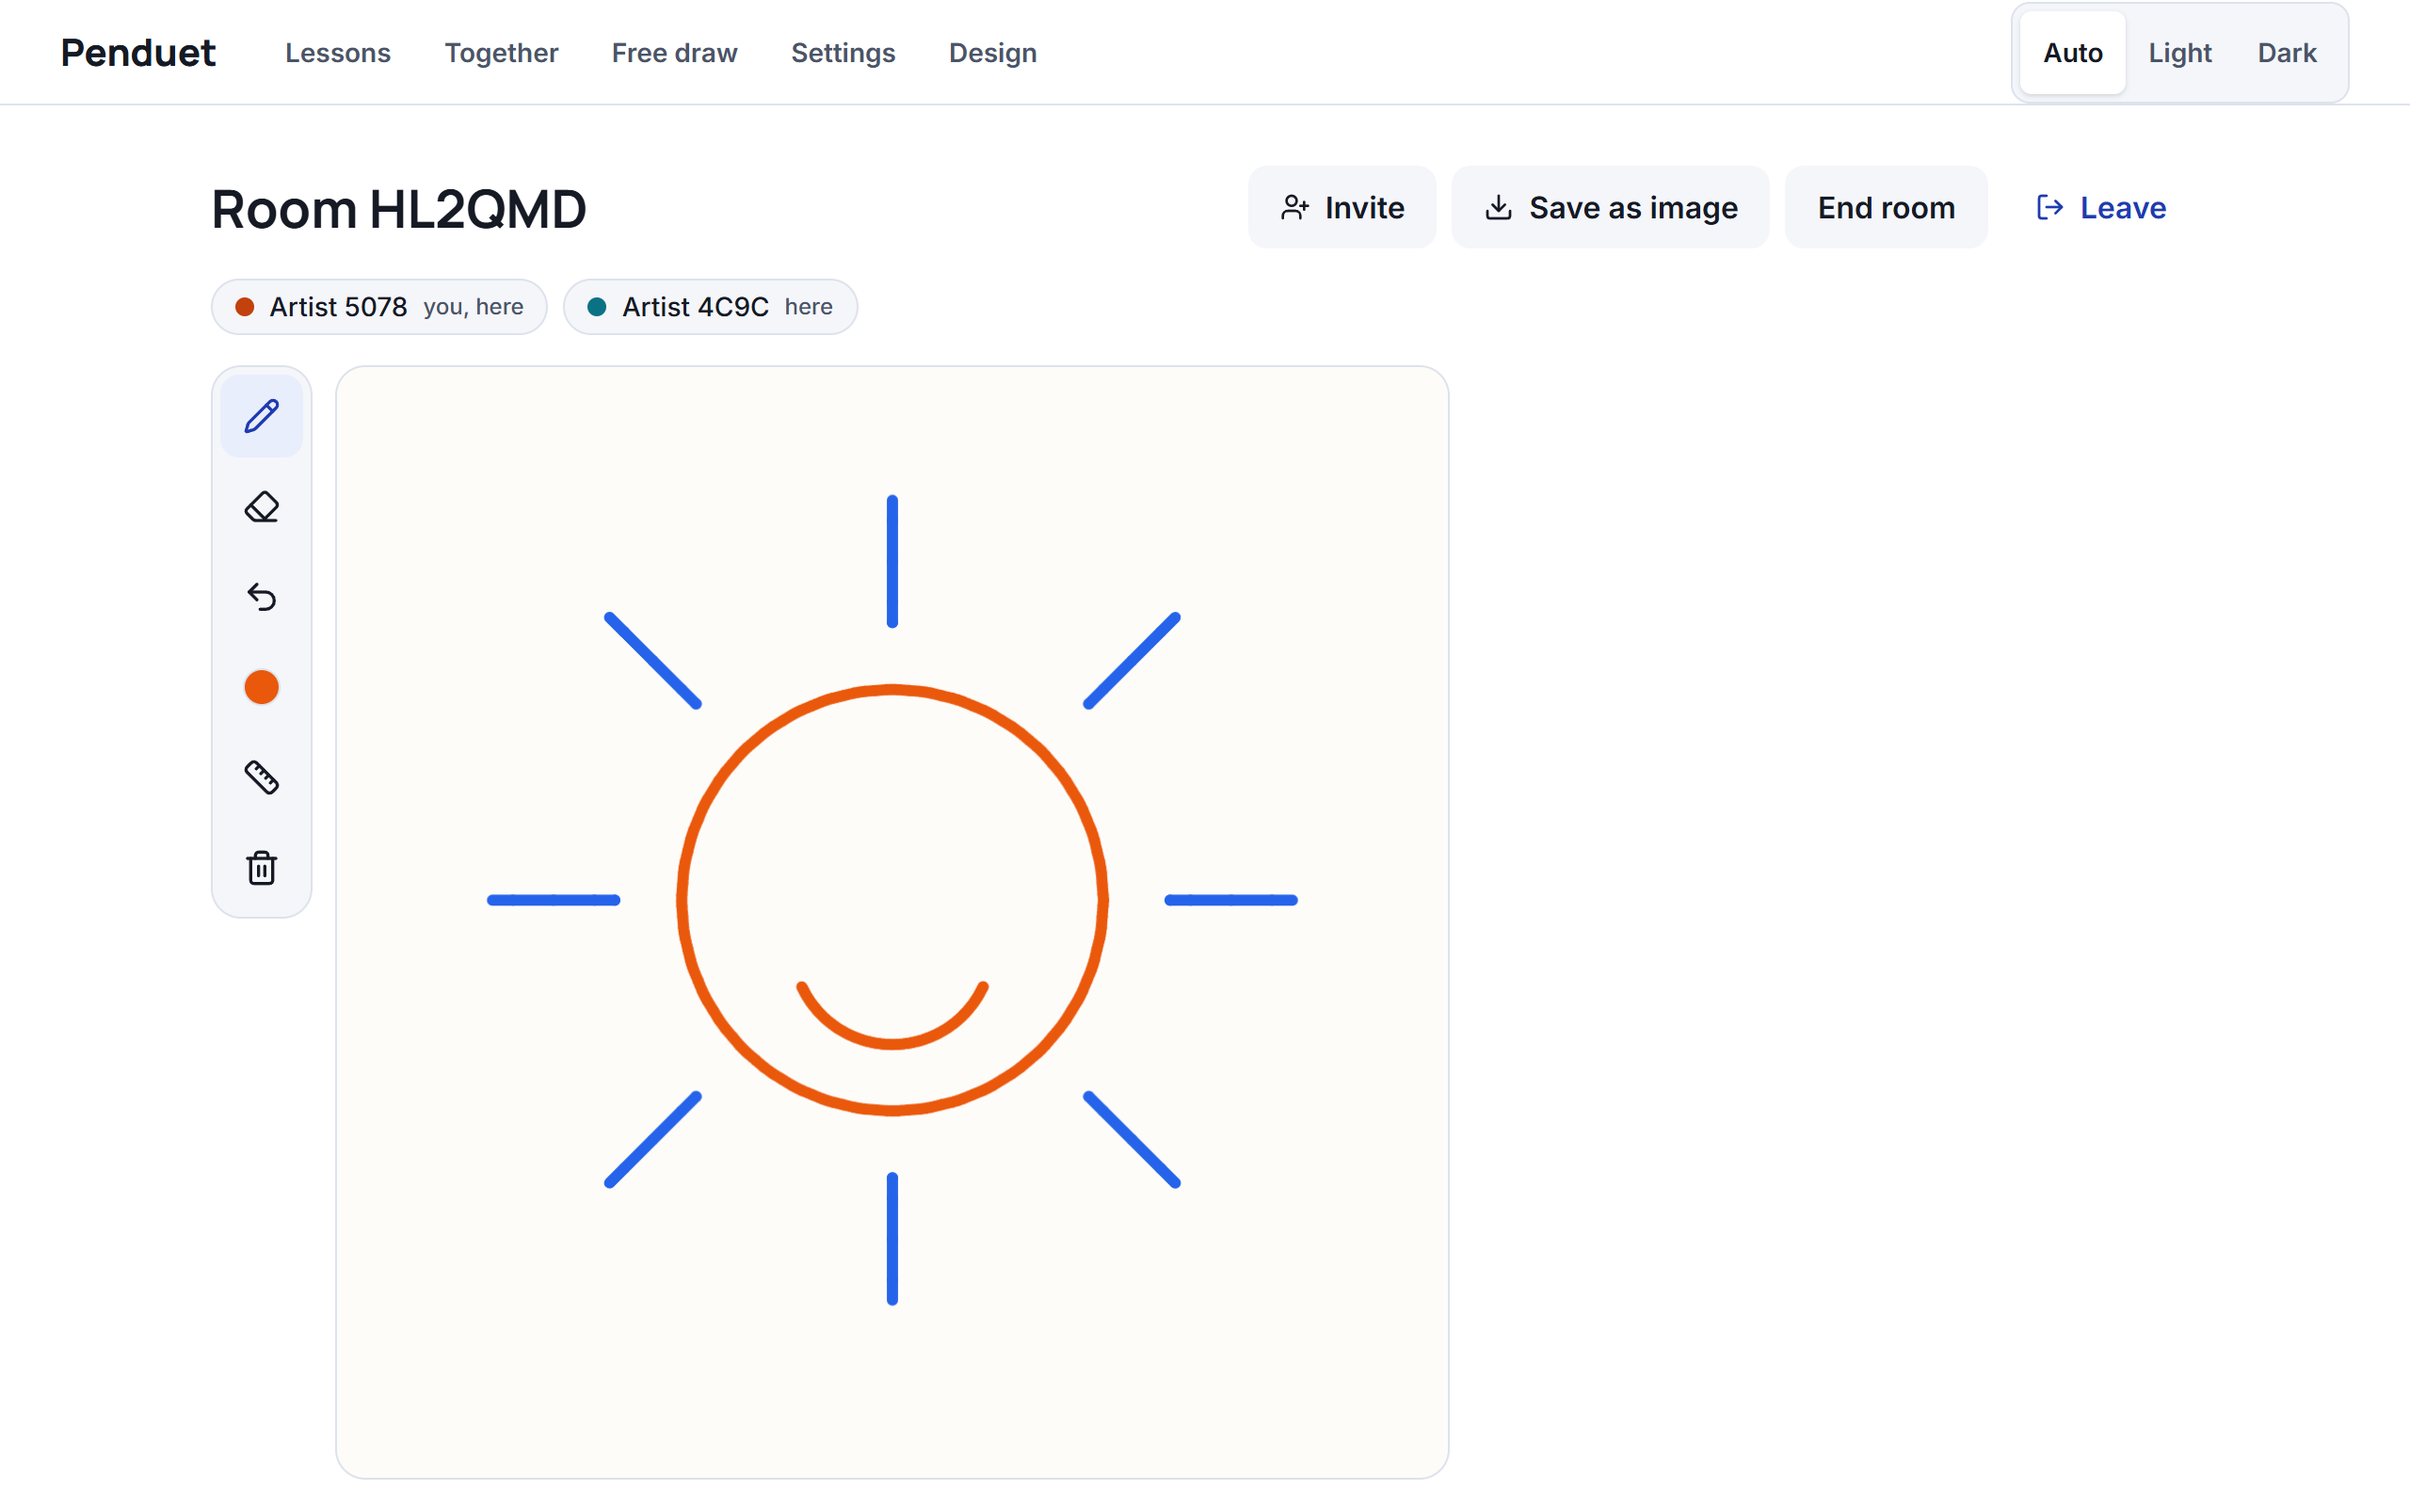
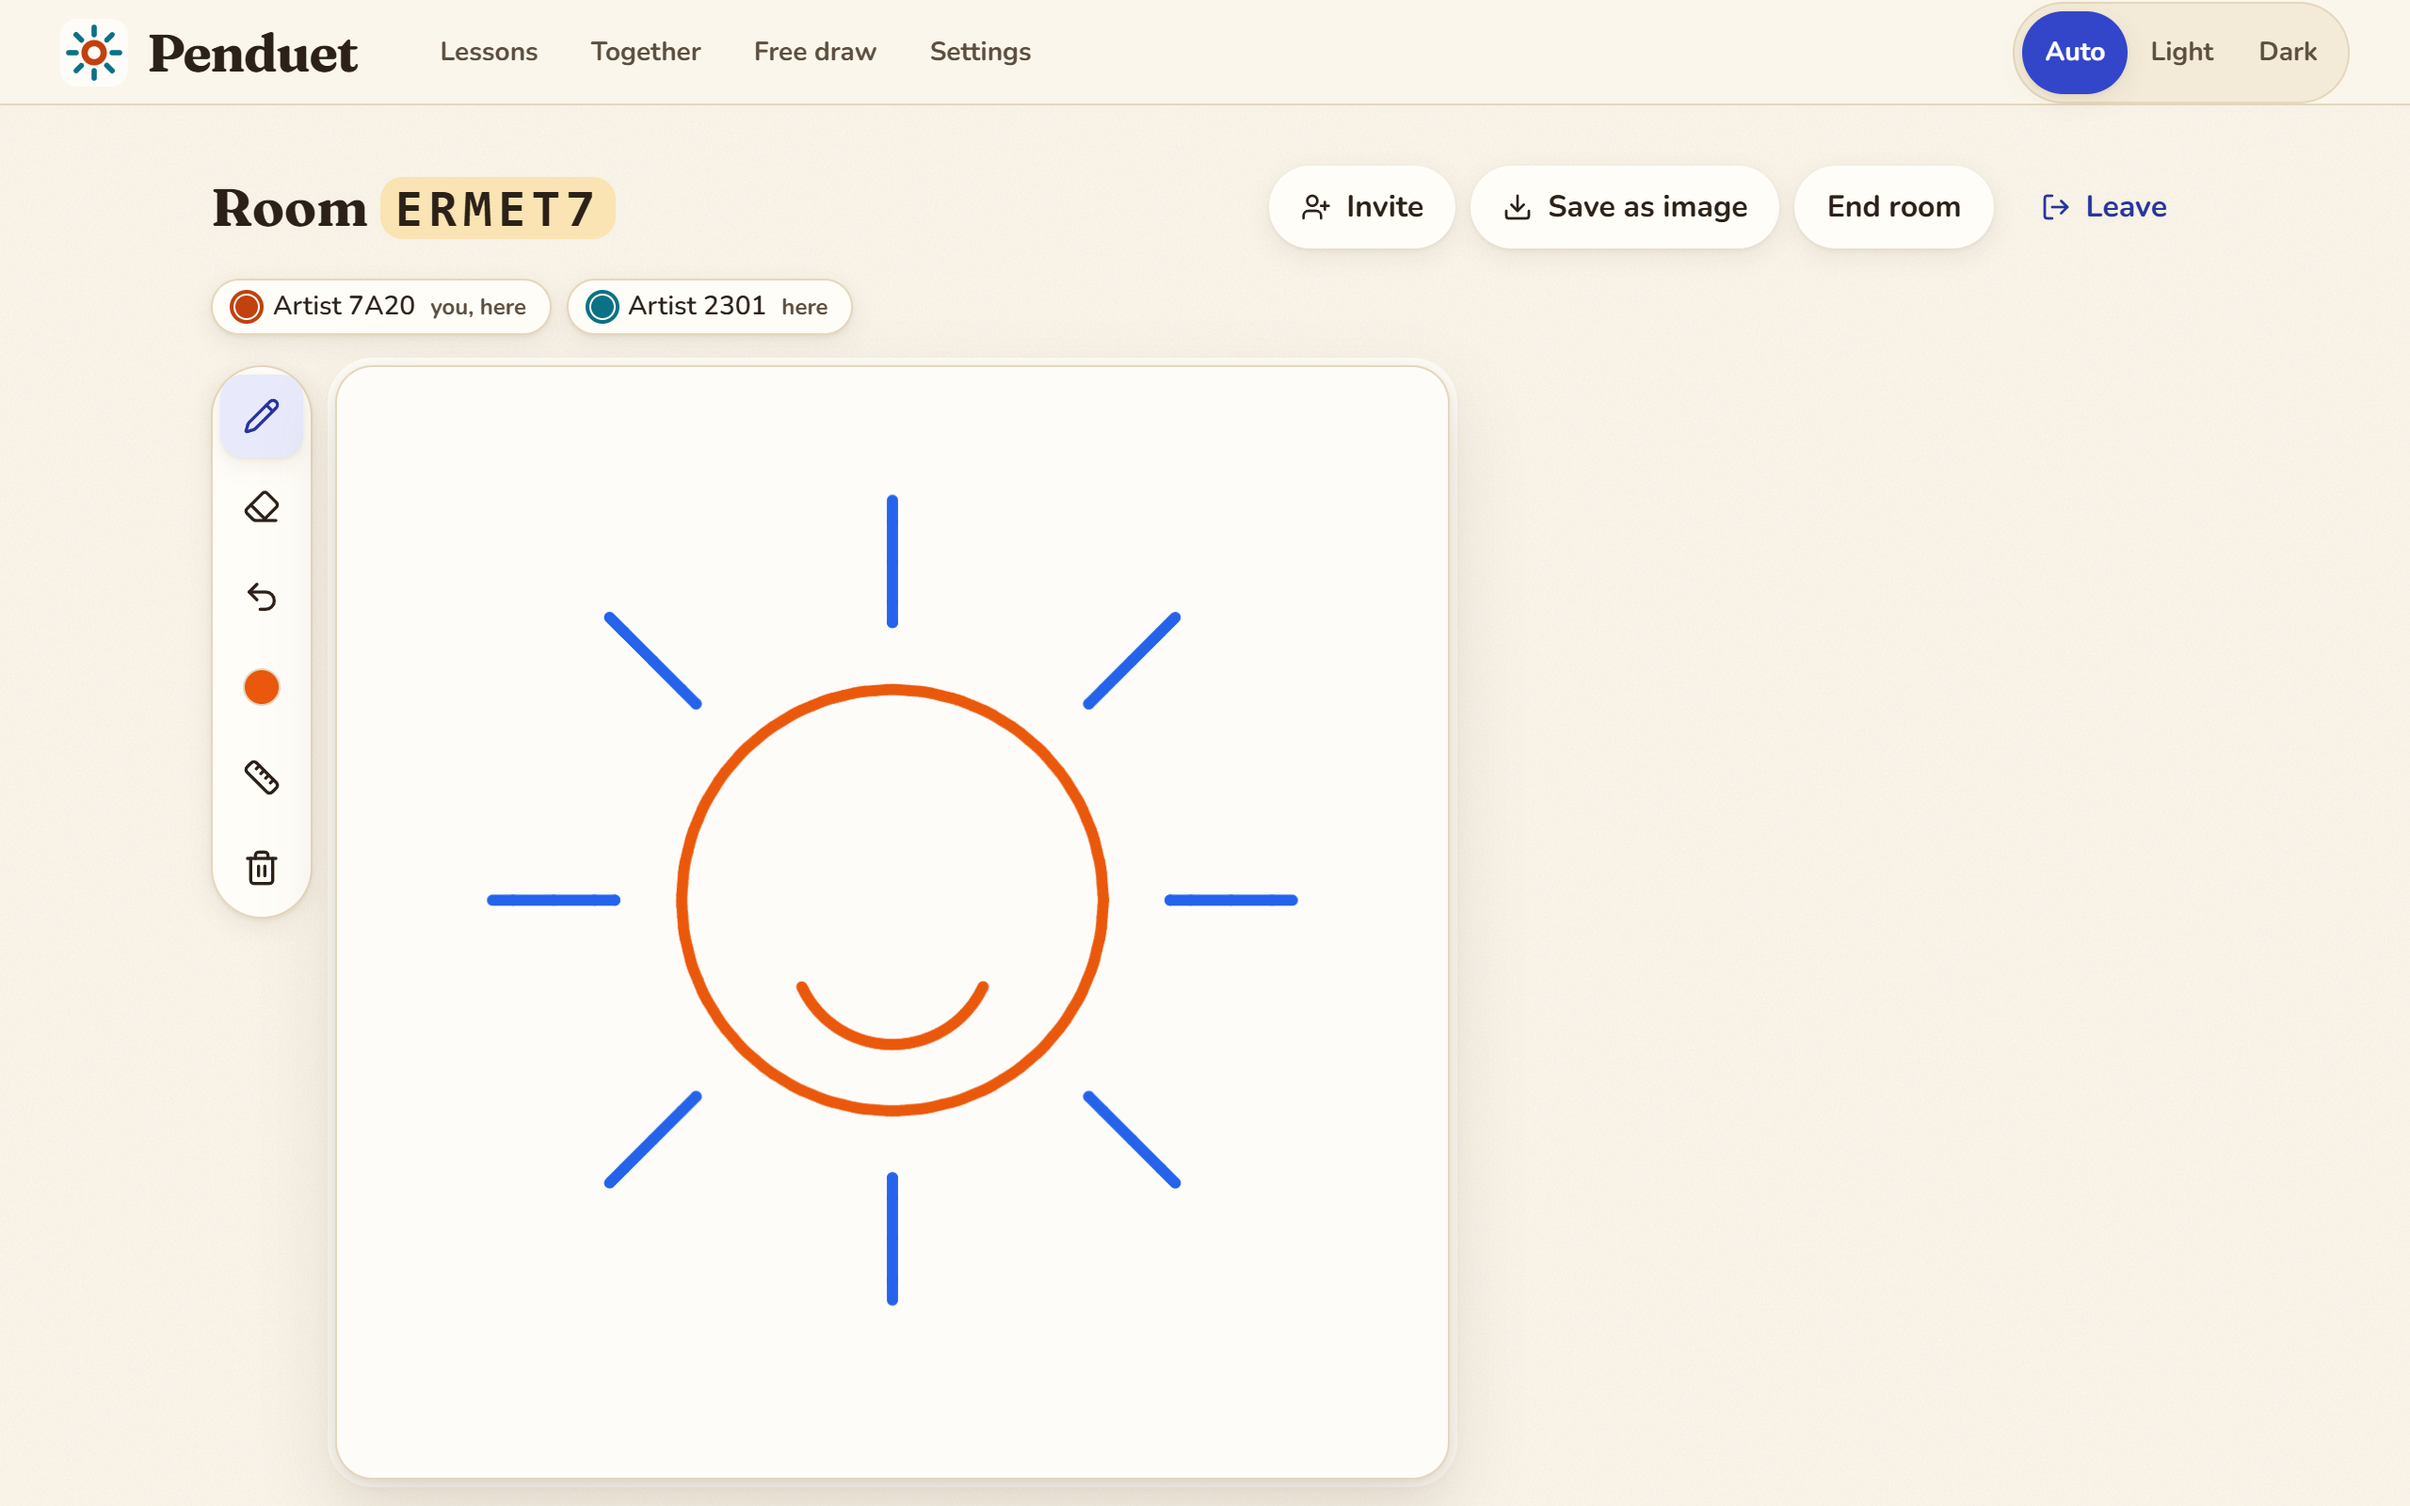
Restyle the room in the atelier look and retake the landing screenshots
Room code highlighted in the title, paper player chips, raised tool rail with a popping colour panel, tilted pastel code tiles, canvas framed with a ring (layout unchanged). Landing PNGs retaken from the real app; capture script now uses reduced motion and clicks the swatch label.

Changed region(s): [[0.0, 0.0, 1.0, 1.0]]

diff --git a/apps/web/src/pages/Room.tsx b/apps/web/src/pages/Room.tsx
@@ -141,7 +141,13 @@ function LiveRoom({ code }: { code: string }) {
           "here") must not make the row wrap or unwrap, because that moves the canvas under a stroke. */}
       <div className="flex flex-wrap items-center justify-between gap-3">
         <h1 id="room-title" className="font-display text-xl font-bold">
-          Room {code}
+          Room{' '}
+          <span
+            className="rounded-md px-2 font-mono tracking-widest"
+            style={{ background: 'color-mix(in srgb, var(--color-paint-yellow) 35%, var(--color-surface-raised))' }}
+          >
+            {code}
+          </span>
         </h1>
         <div className="flex flex-wrap gap-2">
           {status !== 'ended' && status !== 'gone' && status !== 'full' ? (
@@ -185,7 +191,7 @@ function LiveRoom({ code }: { code: string }) {
       {status === 'gone' ? <ConnectionBanner kind="room-expired" /> : null}
 
       {status === 'ended' ? (
-        <div className="flex flex-col items-start gap-3 paper p-4">
+        <div className="rise flex flex-col items-start gap-3 paper p-4">
           <h2 className="font-display text-lg font-semibold">The room has closed</h2>
           <p className="text-muted">The host ended it. Your drawing is still below, so save it before you leave.</p>
           {me ? (
@@ -241,7 +247,7 @@ function LiveRoom({ code }: { code: string }) {
                   : undefined
               }
             />
-            <div className={`relative ${CANVAS_BOX_ROOM}`}>
+            <div className={`relative rounded-lg ring-4 ring-raised ${CANVAS_BOX_ROOM}`}>
               <DrawingCanvas
                 board={board}
                 authorId={me ?? 'pending'}

diff --git a/apps/web/src/ui/RoomCodeDisplay.tsx b/apps/web/src/ui/RoomCodeDisplay.tsx
@@ -2,6 +2,9 @@ import { useEffect, useRef, useState } from 'react'
 import { Check, Copy, Link2 } from 'lucide-react'
 import { Button } from './Button'
 
+const dabs = ['--color-paint-yellow', '--color-paint-pink', '--color-paint-green', '--color-accent', '--color-paint-red', '--color-paint-yellow']
+const tilt = ['-rotate-2', 'rotate-1', '-rotate-1', 'rotate-2', '-rotate-2', 'rotate-1']
+
 export interface RoomCodeDisplayProps {
   code: string
   /** Full invite link. When omitted the "Copy link" button is hidden. */
@@ -50,7 +53,11 @@ export function RoomCodeDisplay({ code, link }: RoomCodeDisplayProps) {
           <span
             key={`${i}-${ch}`}
             aria-hidden="true"
-            className="grid h-14 w-touch place-items-center rounded-md border border-line bg-surface font-mono text-code font-bold"
+            className={`pop-in grid h-14 w-touch place-items-center rounded-md border border-line font-mono text-code font-bold shadow-card ${tilt[i % tilt.length]}`}
+            style={{
+              ['--i' as string]: i,
+              background: `color-mix(in srgb, var(${dabs[i % dabs.length]}) 20%, var(--color-surface-raised))`,
+            }}
           >
             {ch}
           </span>

diff --git a/apps/web/src/ui/PlayerChip.tsx b/apps/web/src/ui/PlayerChip.tsx
@@ -27,7 +27,7 @@ export function PlayerChip({ name, slot, status, isMe = false, className }: Play
       role="group"
       aria-label={label}
       className={cn(
-        'inline-flex items-center gap-2 rounded-pill border bg-surface px-3 py-1 text-sm font-medium',
+        'inline-flex items-center gap-2 rounded-pill border bg-raised px-3 py-1 text-sm font-semibold shadow-card',
         // Not faded: faded text fails contrast. A dashed border says "not here" without touching the text.
         status === 'left' || status === 'waiting' ? 'border-dashed border-input' : 'border-line',
         className,
@@ -36,8 +36,8 @@ export function PlayerChip({ name, slot, status, isMe = false, className }: Play
       <span
         aria-hidden="true"
         className={cn(
-          'h-2.5 w-2.5 rounded-pill',
-          slot === 1 ? 'bg-player-1' : 'bg-player-2',
+          'h-3 w-3 rounded-pill ring-2 ring-offset-1 ring-offset-raised',
+          slot === 1 ? 'bg-player-1 ring-player-1' : 'bg-player-2 ring-player-2',
           status === 'drawing' && 'animate-pulse motion-reduce:animate-none',
         )}
       />

diff --git a/apps/web/src/ui/DrawingToolbar.tsx b/apps/web/src/ui/DrawingToolbar.tsx
@@ -86,8 +86,8 @@ export function DrawingToolbar({
       aria-orientation={orientation}
       onKeyDown={onKeyDown}
       className={cn(
-        'relative inline-flex gap-1 rounded-lg border border-line bg-surface p-1',
-        vertical ? 'flex-col' : 'flex-row',
+        'relative inline-flex gap-1 rounded-xl border border-line bg-raised p-1 shadow-card',
+        vertical ? 'flex-col' : 'flex-row justify-around',
       )}
     >
       <IconButton label="Pen" icon={<Pencil />} pressed={tool === 'pen'} onClick={() => onToolChange('pen')} {...item(0)} />
@@ -116,8 +116,8 @@ export function DrawingToolbar({
       {panel ? (
         <div
           className={cn(
-            'absolute z-30 w-64 rounded-lg border border-line bg-raised p-3 shadow-pop',
-            vertical ? 'left-full top-0 ml-2' : 'bottom-full left-0 mb-2',
+            'pop-in absolute z-30 w-64 rounded-xl border border-line bg-raised p-3 shadow-pop',
+            vertical ? 'left-full top-0 ml-2 origin-top-left' : 'bottom-full left-0 mb-2 origin-bottom-left',
           )}
         >
           {panel === 'colour' ? (

diff --git a/apps/web/src/ui/IconButton.tsx b/apps/web/src/ui/IconButton.tsx
@@ -23,8 +23,8 @@ export const IconButton = forwardRef<HTMLButtonElement, IconButtonProps>(functio
       aria-pressed={pressed}
       className={cn(
         'inline-grid h-touch w-touch min-h-touch min-w-touch place-items-center rounded-md border border-transparent',
-        'transition duration-fast ease-out disabled:cursor-not-allowed disabled:opacity-45',
-        pressed ? 'bg-accent-soft text-accent-text' : variant === 'filled' ? 'bg-surface text-fg hover:bg-line' : 'text-fg hover:bg-surface',
+        'transition duration-fast ease-out active:scale-90 disabled:cursor-not-allowed disabled:opacity-45',
+        pressed ? 'bg-accent-soft text-accent-text shadow-card' : variant === 'filled' ? 'bg-surface text-fg hover:bg-line' : 'text-fg hover:bg-surface',
         className,
       )}
       {...rest}

diff --git a/apps/web/src/ui/ColourPicker.tsx b/apps/web/src/ui/ColourPicker.tsx
@@ -35,7 +35,7 @@ export function ColourPicker({ colours, value, onChange, label = 'Brush colour' 
             <span
               aria-hidden="true"
               style={{ backgroundColor: c.value }}
-              className={cn('grid h-9 w-9 place-items-center rounded-pill border border-line', selected && 'ring-2 ring-accent ring-offset-2 ring-offset-bg')}
+              className={cn('grid h-9 w-9 place-items-center rounded-pill border border-line shadow-card transition-transform duration-fast ease-out hover:scale-110', selected && 'scale-110 ring-2 ring-accent ring-offset-2 ring-offset-raised')}
             >
               {selected ? <Check className="h-4 w-4 text-canvas mix-blend-difference" /> : null}
             </span>

diff --git a/apps/web/src/ui/ConnectionBanner.tsx b/apps/web/src/ui/ConnectionBanner.tsx
@@ -28,8 +28,8 @@ export function ConnectionBanner({ kind, action, className }: ConnectionBannerPr
     <div
       role="status"
       className={cn(
-        'flex flex-wrap items-center gap-3 rounded-md px-4 py-3 text-sm font-medium',
-        terminal ? 'border border-danger bg-surface text-danger' : 'bg-warning-soft text-warning-text',
+        'rise flex flex-wrap items-center gap-3 rounded-lg px-4 py-3 text-sm font-semibold shadow-card',
+        terminal ? 'border border-danger bg-raised text-danger' : 'bg-warning-soft text-warning-text',
         className,
       )}
     >

diff --git a/replica/build-log.md b/replica/build-log.md
@@ -156,3 +156,8 @@ A new look, "atelier": warm paper, oil-paint colours, serif headlines and motion
 - Home: brush-underlined headline, drifting paint blobs, a tilted framed picture, icon tiles, a paint-yellow price band and an accordion FAQ.
 - Motion: entrance rise and pop, lift on hover, press scale, star pop, page fade. Transform and opacity only, and all of it stops under `prefers-reduced-motion`. Playwright runs with reduced motion on, so half-faded elements do not trip the axe contrast check.
 - Not done: `public/landing/*.png` still show the old blue look (retake them); the room page itself is only re-coloured, not re-laid-out; no real-device check of the bottom bar or the animations.
+
+## Atelier room + landing screenshots (2026-10-28)
+- S10/S11 room restyled: yellow-highlighted code in the title, paper player chips with a ringed seat dot, easel-style tool rail (raised, rounded-xl), pop-in colour/size panel, tilted pastel code tiles, canvas in a paper frame (ring only, so its size and the header height are unchanged), rising banners.
+- `public/landing/room-*.png` retaken from the real app with `scripts/capture-landing.mjs` (now uses reduced motion and clicks the swatch label).
+- Tests: typecheck clean, web vitest passed, Playwright 140/141; the one failure (coop-lesson C-E2, two simultaneous Next clicks) passed on rerun alone and in its file: timing flake.
